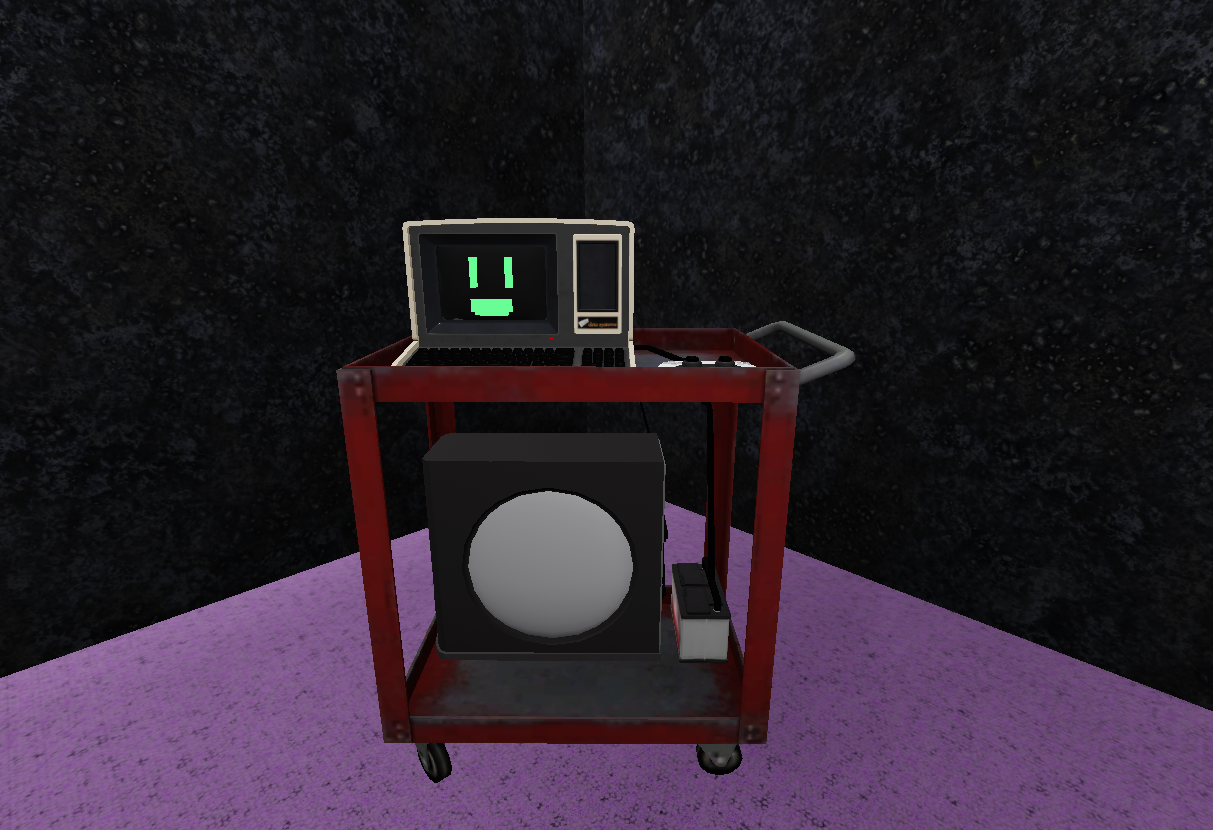
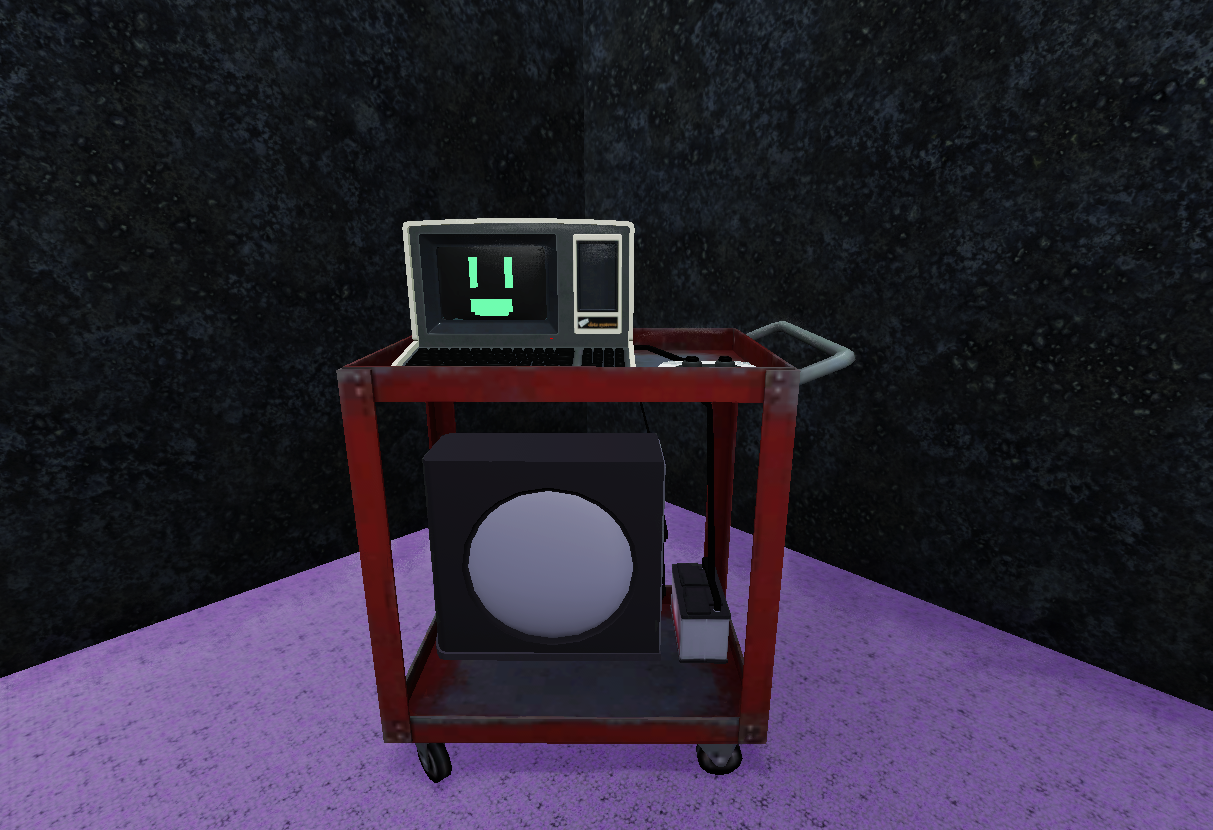
polybius

diff --git a/polybius.html b/polybius.html
@@ -1,0 +1,31 @@
+<!DOCTYPE html>
+<html lang="en">
+<head>
+    <meta charset="UTF-8">
+    <meta name="viewport" content="width=device-width, initial-scale=1.0">
+    <title>Polybius</title>
+    <link rel="stylesheet" href="stylesheet.css"/>
+</head>
+<body>
+    <a href="index.html"><p style="text-align: left; font-size: 100px; color: darkviolet;">⌂</p></a>
+    <img src="images/polybiusPic.png" style="width: 20cm;"/>
+    <p>Polybius in the living room, picture taken from sofa.</p>
+    <div style="margin-bottom: 4cm;"></div>
+    
+    <p>Polybius. The urban legend, told all throughout the years of arcade game popularity.</p>
+    <p>Said to have mind controlling abilities, having turned many people insane with hypnotic and epileptic imagery.</p>
+    <p>Found in a ware shop behind an old abandoned arcade,</p>
+    <p>this interesting friend appears to be filled with something...other than motherboards and computer chips.</p>
+    <p>At first glance they seemed unresponsive but after some time, they revealed themselves!</p>
+    <p>A friendly and playful fellow indeed, something you'd expect from an arcade machine.</p>
+    <p>But there is something very important to mention: He HATES cheaters.</p>
+    <br/>
+    <p>Edit: Someone in the collection team appears to be attracted to them...-Kat</p>
+
+    <!--Heart rate: 73
+        5.4 breaths per minute
+        No signs of decay
+        93°f (33.8889°c) lower temperature than normal but relatively healthy
+        Just impressive -Stain-->
+</body>
+</html>

diff --git a/index.html b/index.html
@@ -16,10 +16,8 @@
     <p>You can find secret areas you might enjoy and [have no lore implications] to admire!</p>
     <p>and of course interact with everyone's favorite attendant Hugo U. "Manatee"!</p>
     <br/>
-    <figure>
-        <img id="title" src="" alt="Do not try to find where we are."/>
-        The lobby where everyone hangs out.
-    </figure>
+    <img id="title" src="" alt="Do not try to find where we are."/>
+    <p>The lobby where everyone hangs out.</p>
     <div style="margin-bottom: 15cm;"></div>
     
     <h2>Meet our companions!</h2>
@@ -47,8 +45,8 @@
     </div>
     <br/>
     <div>
-        <img src="faces/polybiusOff.jpg" style="margin-right: 21cm; width:10cm;" onmouseover="this.src='faces/polybiusOn.jpeg';" onmouseout="this.src='faces/polybiusOff.jpg';"/>
-        <img src="faces/percyOff.png" style="width: 2cm; position:relative; left: -3.9cm; top: -5cm;" onmouseover="this.src='faces/percyOn.png';" onmouseout="this.src='faces/percyOff.png';" onclick="this.src='faces/percyHappy.png';"/>
+        <a href="polybius.html"><img src="faces/polybiusOff.jpg" style="margin-right: 21cm; width:10cm;" onmouseover="this.src='faces/polybiusOn.jpeg';" onmouseout="this.src='faces/polybiusOff.jpg';"/></a>
+        <a href="percy.html"><img src="faces/percyOff.png" style="width: 2cm; position:relative; left: -3.9cm; top: -5cm;" onmouseover="this.src='faces/percyOn.png';" onmouseout="this.src='faces/percyOff.png';" onmousedown="this.src='faces/percyHappy.png';"/></a>
     </div>
     <br/>
     <div>

diff --git a/badware.html b/badware.html
@@ -1,8 +1,7 @@
 <!DOCTYPE html>
 <html lang="en">
 <head>
-    <meta charset=
-    "UTF-8">
+    <meta charset="UTF-8">
     <meta name="viewport" content="width=device-width, initial-scale=1.0">
     <title>Badware</title>
     <link rel="stylesheet" href="stylesheet.css"/>
@@ -12,7 +11,8 @@
     <img src="images/badwarePic.png" style="width: 20cm;"/>
     <p>Badware relaxing at the card table.</p>
     <div style="margin-bottom: 4cm;"></div>
-    <p>A trouble making virus <s>with the capability of infecting other machines and gain control over them.</s> <u>Our engineer has solved this situation.</u></p>
+    
+    <p>Badware. A trouble making virus <s>with the capability of infecting other machines and gain control over them.</s> <u>Our engineer has solved this situation.</u></p>
     <p>If the virus infects a machine, the virus cannot be removed.</p>
     <p>He often despises the staff members and at times attempts to escape.</p>
     <p>Ever since its infectious capabilities got taken away he appears miserable and often irritable.</p>

diff --git a/percy.html b/percy.html
@@ -1,0 +1,15 @@
+<!DOCTYPE html>
+<html lang="en">
+<head>
+    <meta charset="UTF-8">
+    <meta name="viewport" content="width=device-width, initial-scale=1.0">
+    <title>Percy</title>
+    <link rel="stylesheet" href="stylesheet.css"/>
+</head>
+<body>
+    <a href="index.html"><p style="text-align: left; font-size: 100px; color: darkviolet;">⌂</p></a>
+    <img src="images/percyPic.png" style="width: 20cm;"/>
+    <p>.</p>
+    <div style="margin-bottom: 4cm;"></div>
+</body>
+</html>

diff --git a/codi.html b/codi.html
@@ -11,6 +11,7 @@
     <img src="images/codiPic.png" style="width: 20cm;"/>
     <p>Codi in the living room.</p>
     <div style="margin-bottom: 4cm;"></div>
+    
     <p>Codi. One of the 3 "computers" found in the warehouse.</p>
     <p>He may appear that he dislikes humans but is quite docile, finding us interesting in a curious way.</p>
     <p>He finds them interesting and wants to learn more about them.</p>
